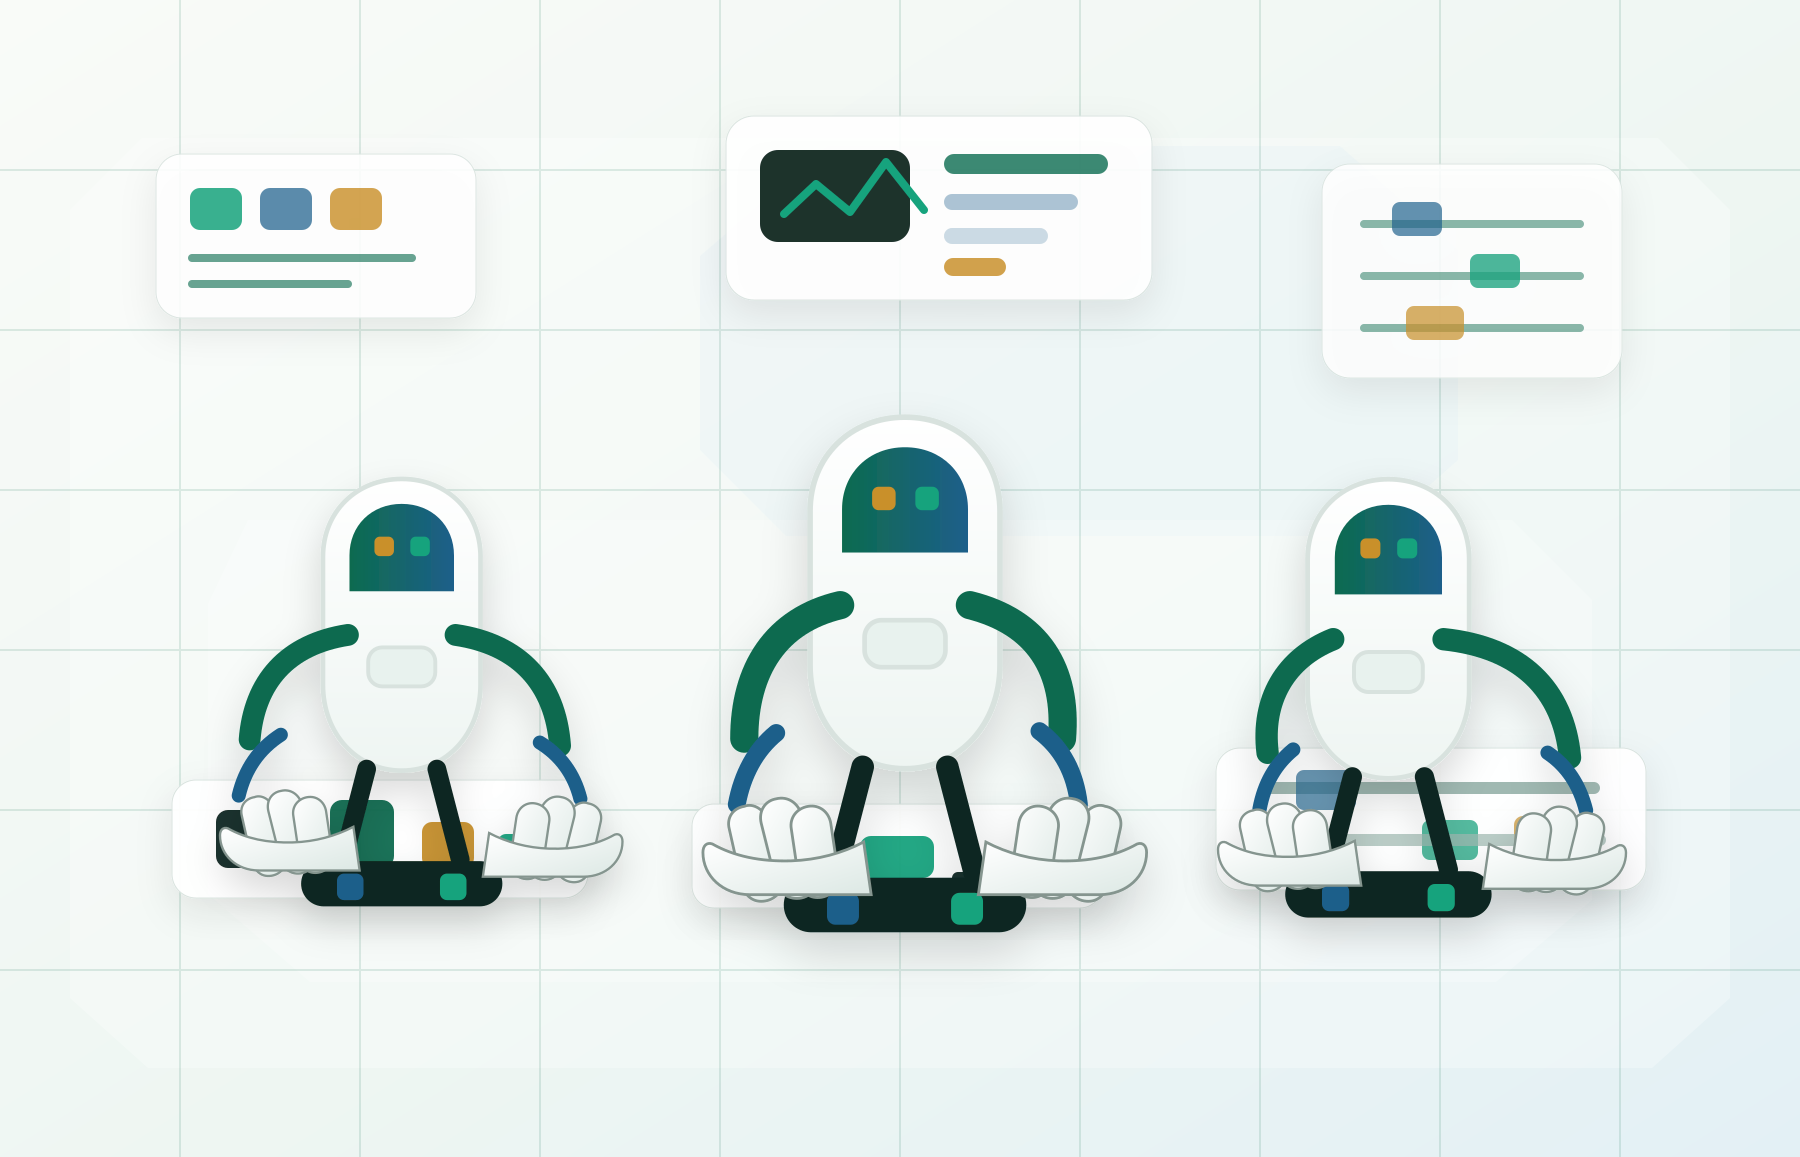
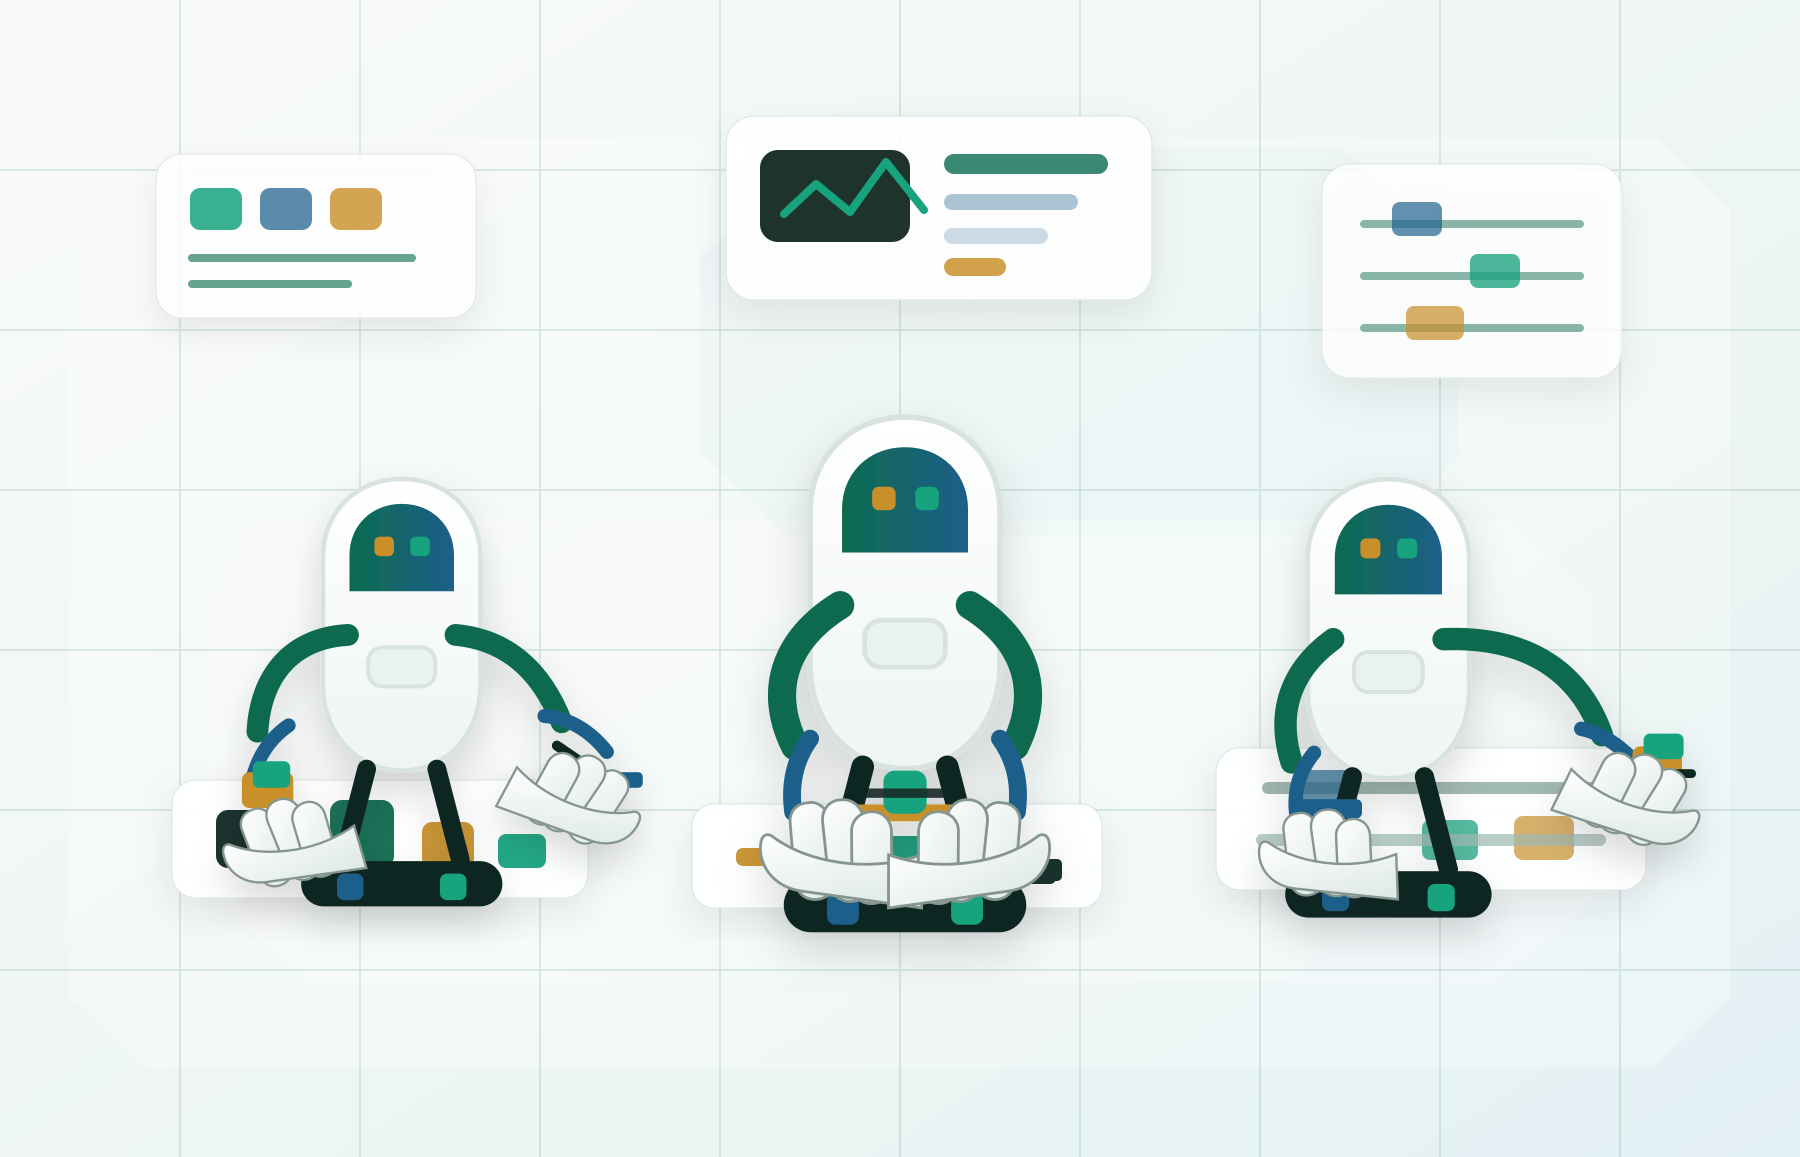
Vary robot poses and held objects

diff --git a/index.html b/index.html
@@ -50,7 +50,7 @@
         <div class="hero-visual" aria-hidden="true">
           <div class="field-grid"></div>
           <figure class="hero-image-frame">
-            <img src="assets/embodied-ai-hero.png?v=7" alt="">
+            <img src="assets/embodied-ai-hero.png?v=8" alt="">
           </figure>
         </div>
         <aside class="signal-panel" aria-label="公司方向摘要">